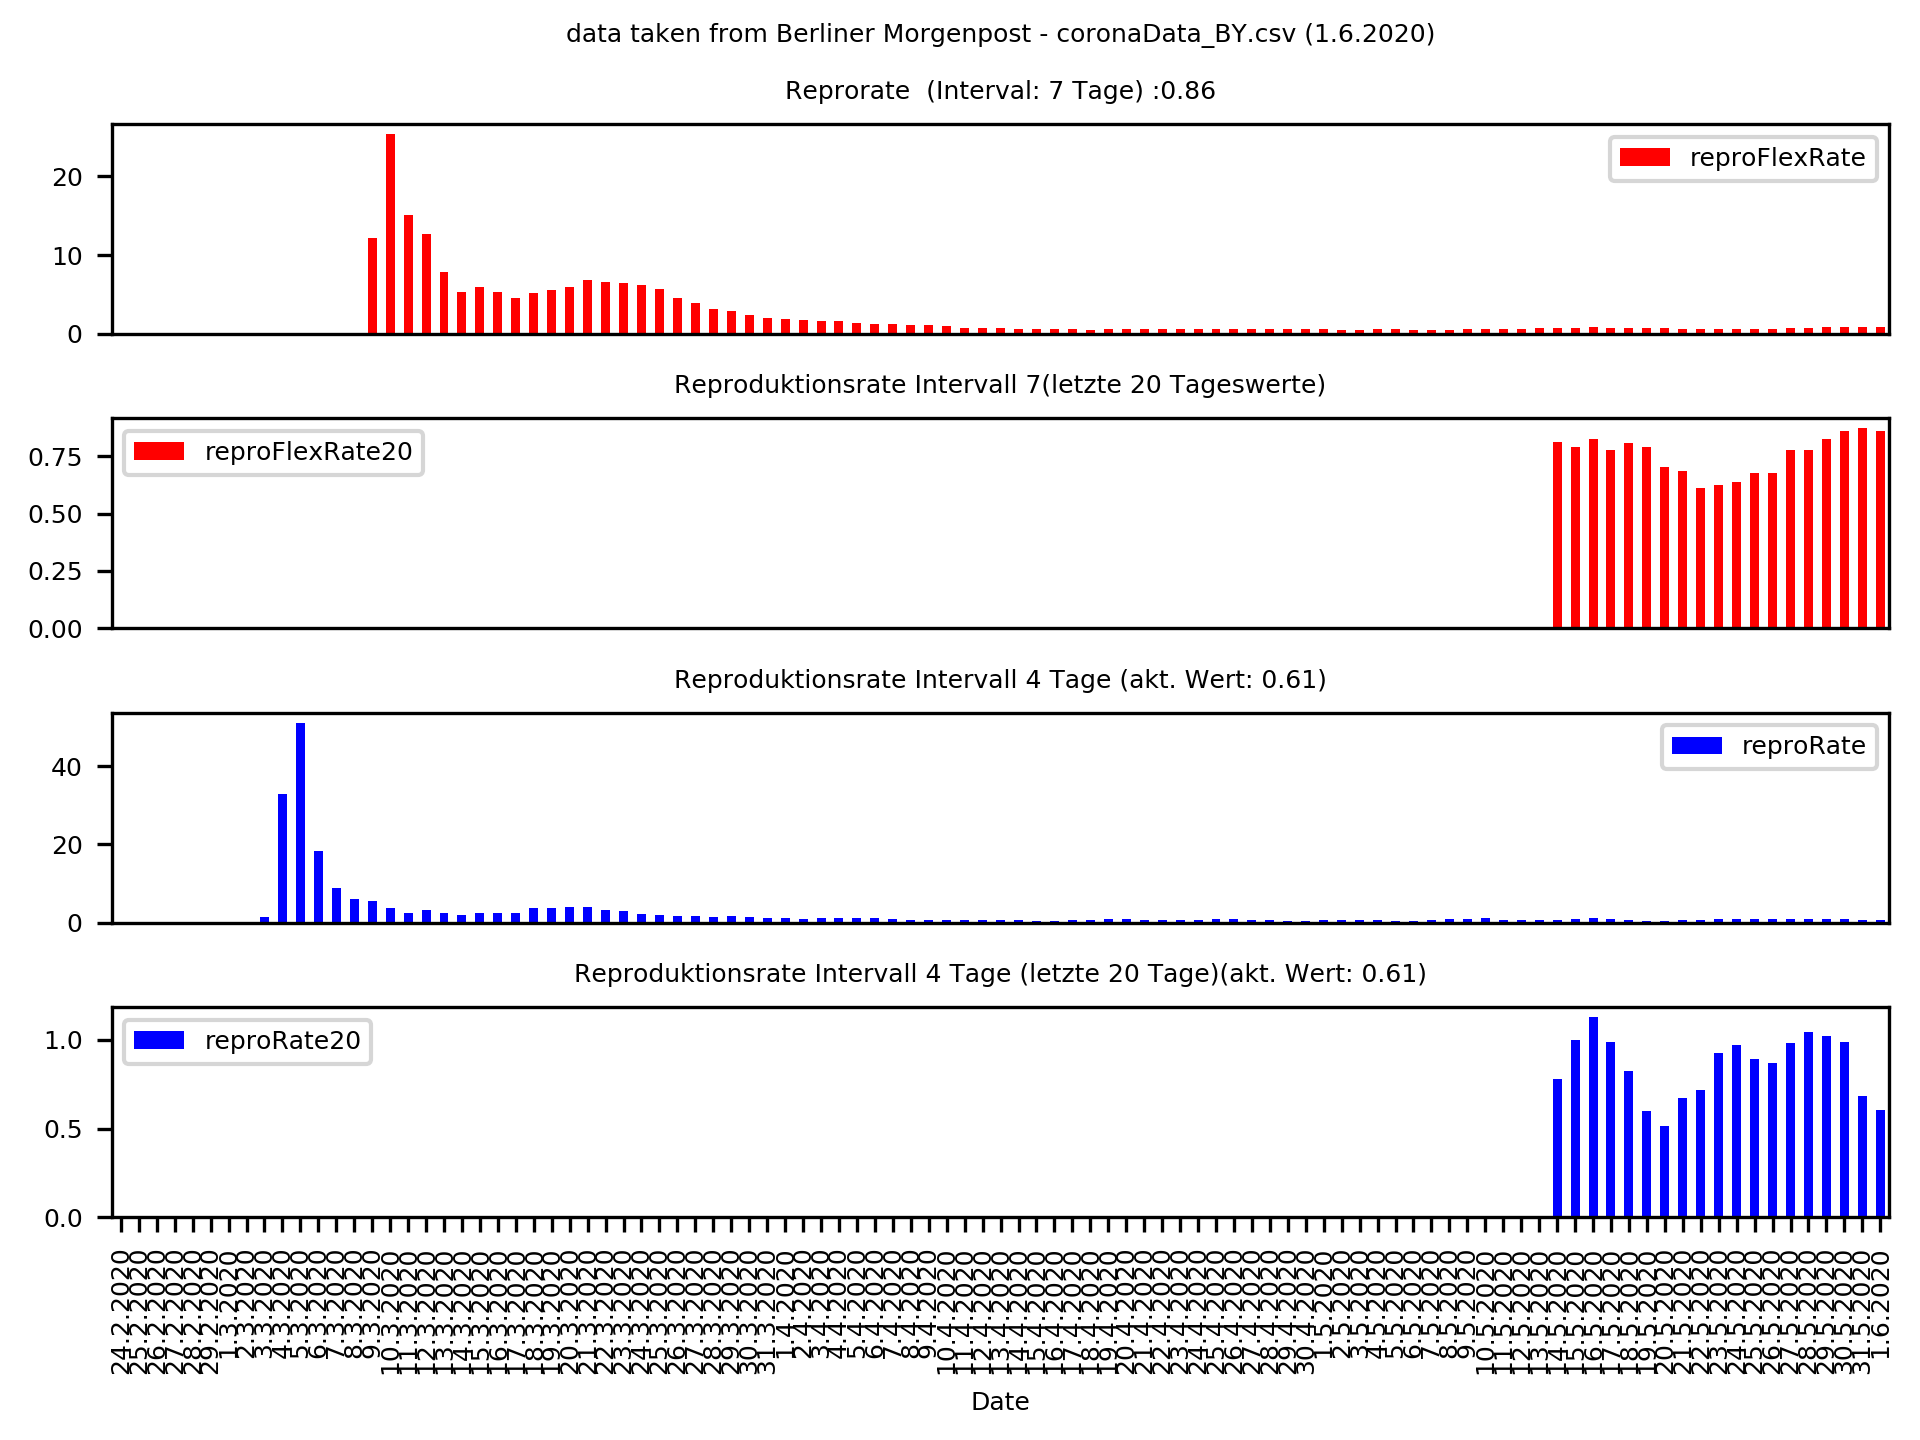
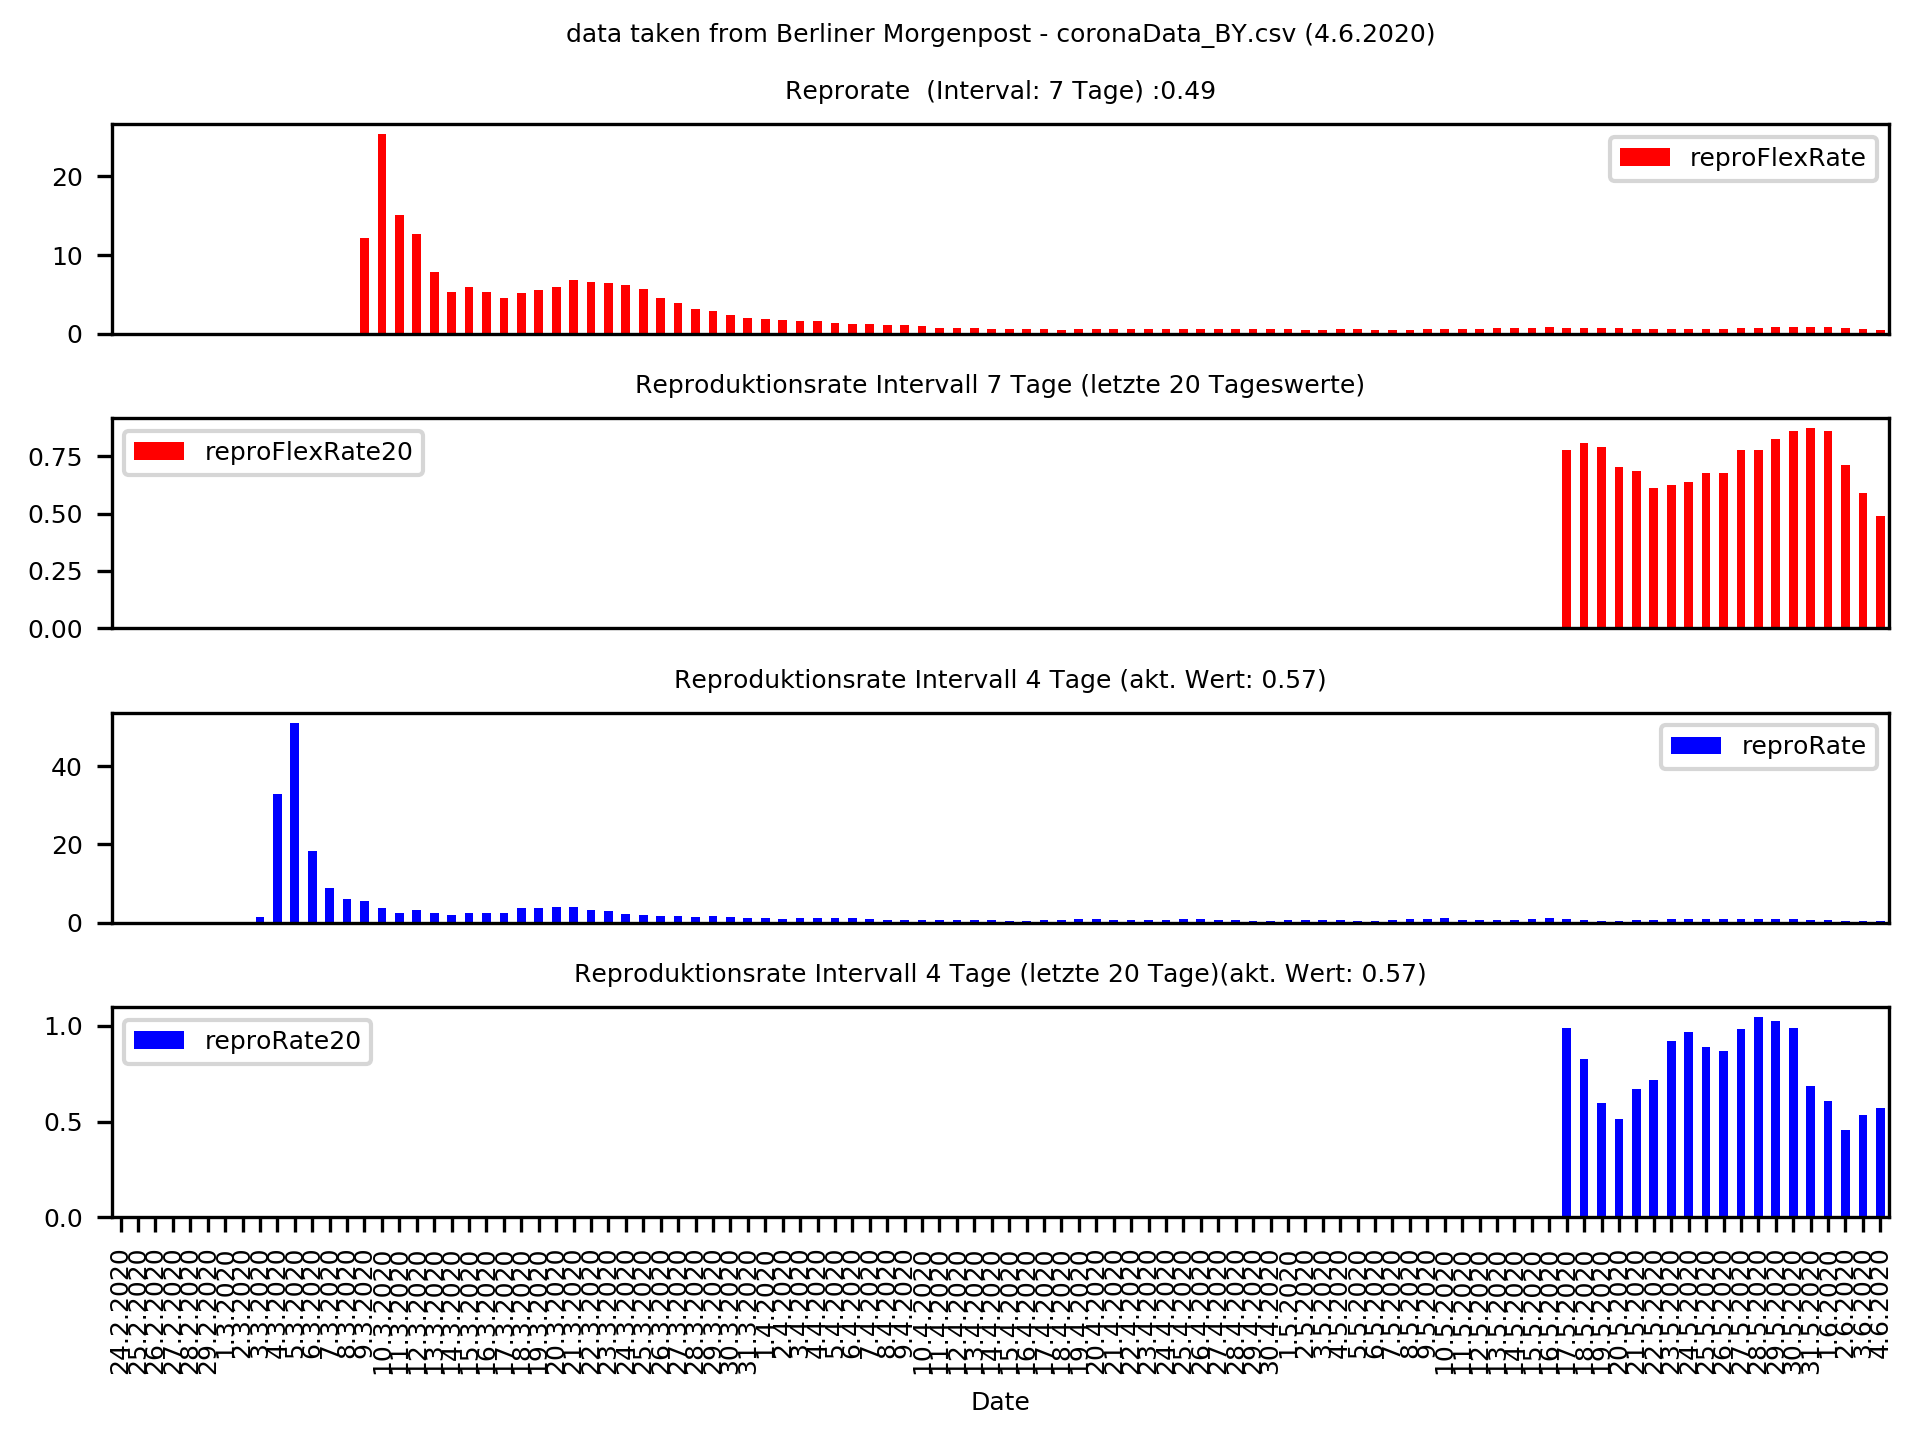
new values, changed typo

diff --git a/report.py b/report.py
@@ -245,7 +245,7 @@ for localSuffix in localSuffixes:
     reproRate = f"{outValue.iloc[-1]['reproRate']:.2f}"
     reproFlexRate = f"{outValue.iloc[-1]['reproFlexRate']:.2f}"
     outValue.plot.bar(x='Date', y='reproFlexRate', ax = axes[0] ,color='red', title='data taken from Berliner Morgenpost - ' + dataFile +" (" + lastDate + ")" +'\n\nReprorate ' + " (Interval: " + f"{flexInt} Tage) :" + reproFlexRate )
-    outValue.plot.bar(x='Date', y='reproFlexRate20', ax = axes[1] ,color='red', title='Reproduktionsrate Intervall ' + f"{flexInt}" + '(letzte 20 Tageswerte)')
+    outValue.plot.bar(x='Date', y='reproFlexRate20', ax = axes[1] ,color='red', title='Reproduktionsrate Intervall ' + f"{flexInt}" + ' Tage (letzte 20 Tageswerte)')
     outValue.plot.bar(x='Date', y='reproRate', ax = axes[2] ,color='blue', title='Reproduktionsrate Intervall 4 Tage (akt. Wert: ' + reproRate + ")")
     outValue.plot.bar(x='Date', y='reproRate20', ax = axes[3] ,color='blue', title='Reproduktionsrate Intervall 4 Tage (letzte 20 Tage)(akt. Wert: ' + reproRate + ")")
     plt.tight_layout()
